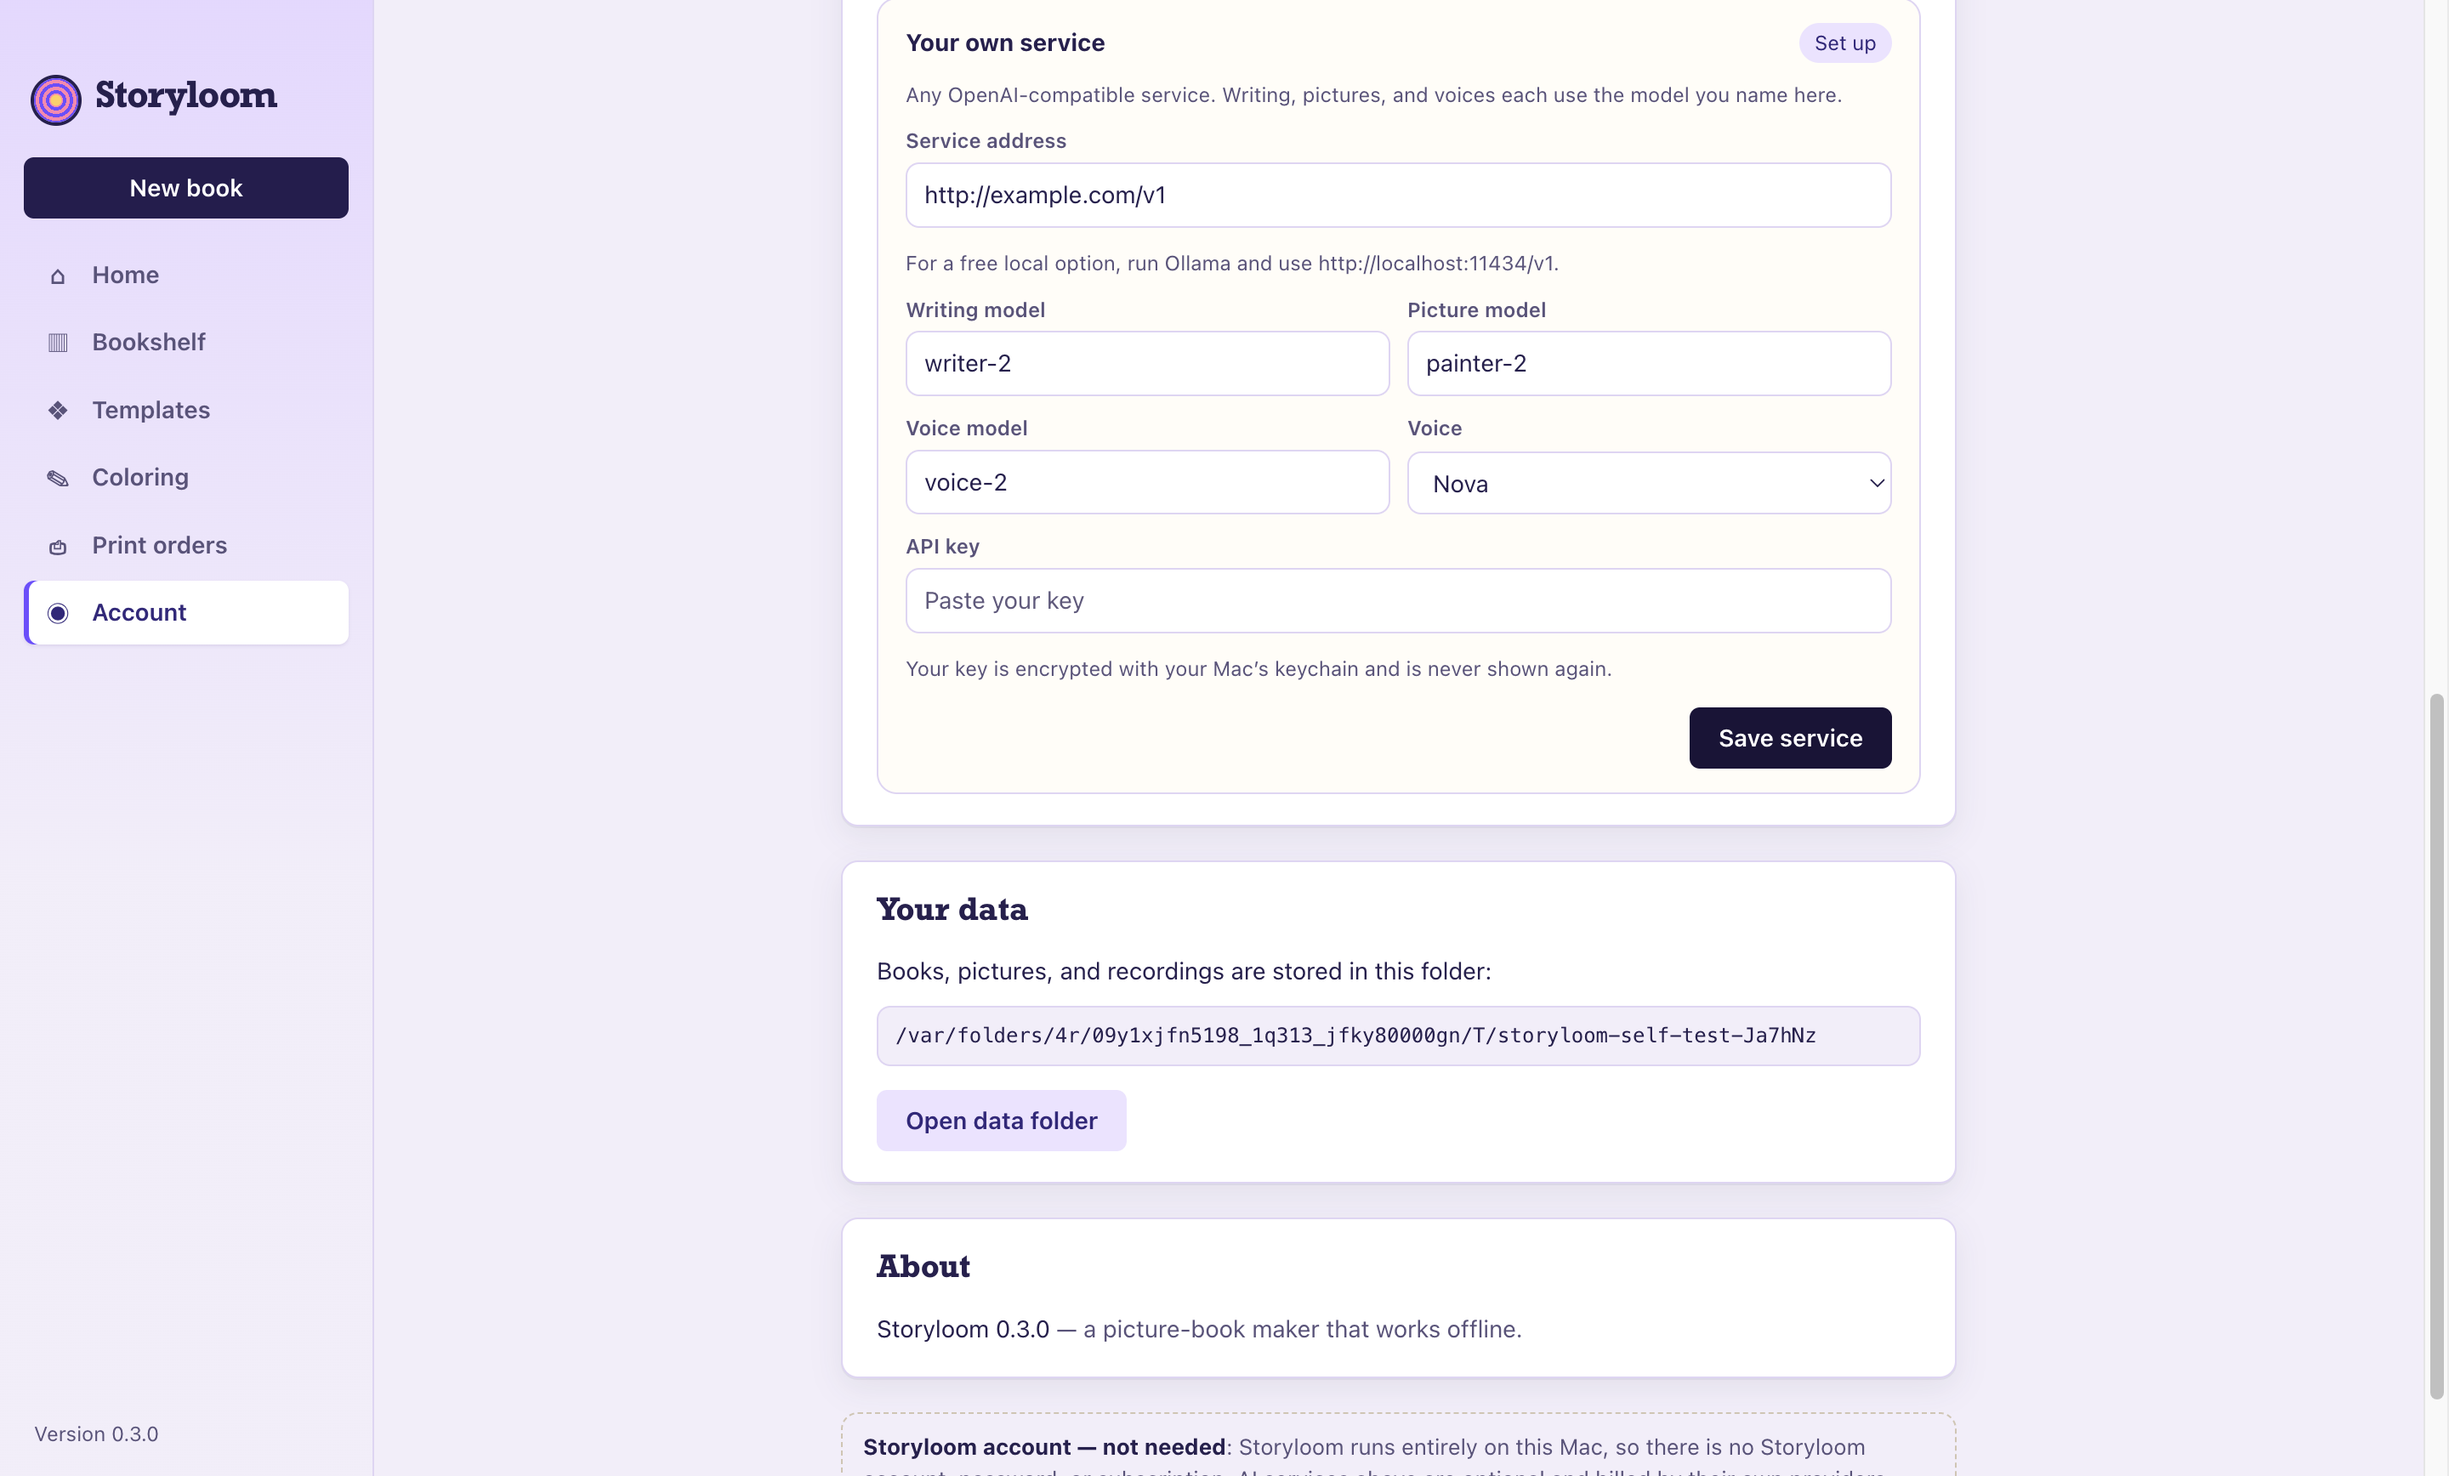
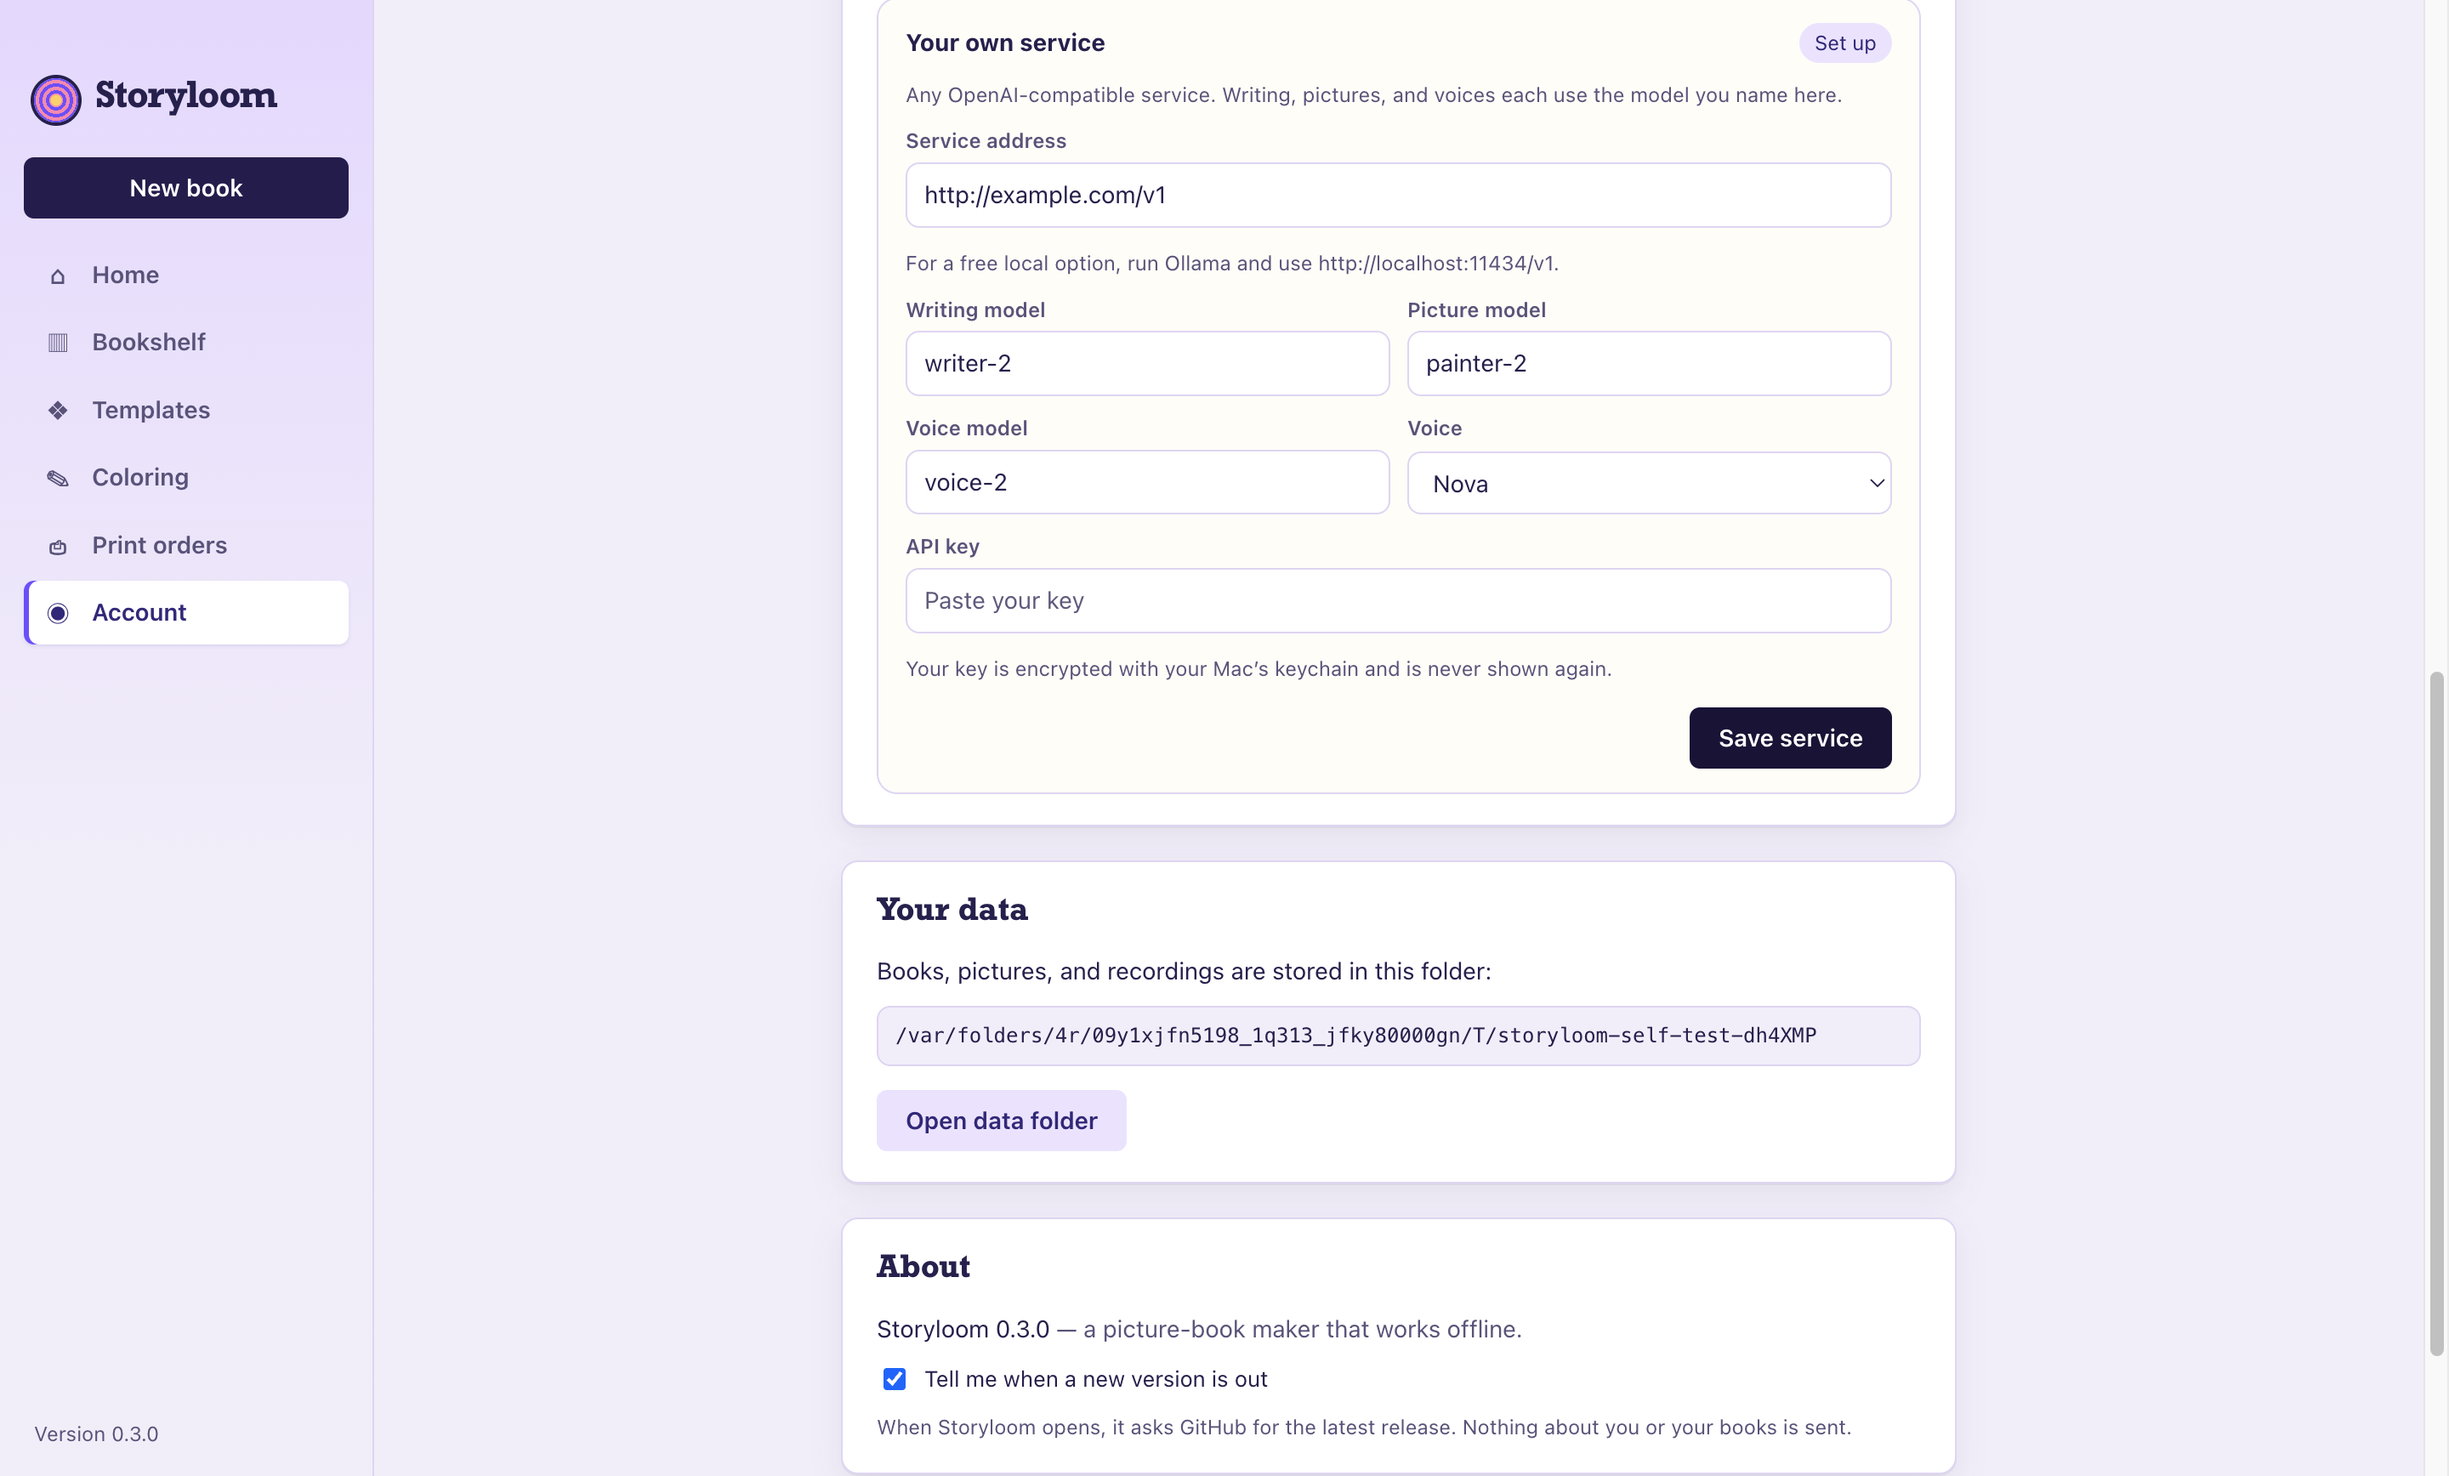
Add an update-available notice that checks GitHub releases

Changed region(s): [[0.3438, 0.9332, 0.8125, 1.0], [0.7188, 0.6843, 0.75, 0.7154]]

diff --git a/renderer/app.js b/renderer/app.js
@@ -198,17 +198,50 @@ const notBuilt = () => toast(NOT_BUILT);
 
 // The running app's version, shown at the foot of the sidebar. It comes from the app itself
 // (package.json, which `npm run release` updates), so it always matches the installed build.
+// Below it, a notice appears when GitHub has a newer release (checked once per launch, if allowed).
 let appVersion = null;
+let updateInfo = null; // { available, latest } from the last check
+let updateCheck = null; // the check in progress or done, so it runs once per launch
+function updateNotice() {
+  if (!updateInfo?.available) return null;
+  return h('div', { class: 'app-update', id: 'app-update', role: 'status' },
+    h('span', {}, `Version ${updateInfo.latest} is available`),
+    h('button', { type: 'button', class: 'link-btn', id: 'app-update-open', onclick: () => run(() => api.openUpdate()) }, 'Download it'));
+}
+function refreshVersionBox() {
+  const box = document.getElementById('app-version-box');
+  if (!box) return;
+  box.replaceChildren(...[
+    h('p', { class: 'app-version', id: 'app-version' }, appVersion ? `Version ${appVersion}` : ''),
+    updateNotice(),
+  ].filter(Boolean));
+}
+// Runs the check (again, if `force`) and updates the sidebar. Also used by Account's on/off switch.
+let updateRequest = 0;
+function checkUpdateNow(force = false) {
+  if (force || !updateCheck) {
+    const request = ++updateRequest;
+    // Only the newest check may change the notice, so a slow older answer can't overwrite a newer one.
+    updateCheck = Promise.resolve()
+      .then(() => api.checkForUpdate(force))
+      .then((info) => { if (request === updateRequest) updateInfo = info; },
+        () => { if (request === updateRequest) updateInfo = null; });
+  }
+  return updateCheck.then(refreshVersionBox);
+}
 function versionLabel() {
-  const label = h('p', { class: 'app-version', id: 'app-version' }, appVersion ? `Version ${appVersion}` : '');
+  const box = h('div', { class: 'app-version-box', id: 'app-version-box' },
+    h('p', { class: 'app-version', id: 'app-version' }, appVersion ? `Version ${appVersion}` : ''),
+    updateNotice());
   if (!appVersion) {
     api.appInfo().then((info) => {
       if (typeof info?.version !== 'string' || !info.version) return;
       appVersion = info.version;
-      label.textContent = `Version ${appVersion}`;
+      refreshVersionBox();
     }, () => {});
   }
-  return label;
+  if (!updateCheck) queueMicrotask(() => checkUpdateNow());
+  return box;
 }
 
 // AI service settings live on the Account screen.

diff --git a/renderer/screens/account.js b/renderer/screens/account.js
@@ -312,7 +312,21 @@
           h('div', { class: 'form-actions export-start' },
             h('button', { class: 'btn secondary', id: 'account-open-data', onclick: () => run(() => api.openDataFolder()) }, 'Open data folder'))),
         h('section', { class: 'export-details', id: 'account-about' }, h('h2', {}, 'About'),
-          h('p', {}, `Storyloom ${info.version}`, h('span', { class: 'muted' }, ' — a picture-book maker that works offline.'))),
+          h('p', {}, `Storyloom ${info.version}`, h('span', { class: 'muted' }, ' — a picture-book maker that works offline.')),
+          h('label', { class: 'check' },
+            h('input', { type: 'checkbox', id: 'account-check-updates', checked: settings.checkUpdates !== false, onchange: async (e) => {
+              const on = e.target.checked;
+              try {
+                state.settings = await api.saveSettings({ checkUpdates: on });
+                await checkUpdateNow(true);
+                toast(on ? 'Storyloom will tell you about new versions' : 'Storyloom won’t check for new versions');
+              } catch (err) {
+                e.target.checked = !on;
+                toast(cleanError(err));
+              }
+            } }),
+            'Tell me when a new version is out'),
+          h('p', { class: 'muted small-print' }, 'When Storyloom opens, it asks GitHub for the latest release. Nothing about you or your books is sent.')),
         h('div', { class: 'export-unavailable', 'data-unavailable': 'cloud-account' },
           h('strong', {}, 'Storyloom account — not needed'),
           h('span', {}, ': Storyloom runs entirely on this Mac, so there is no Storyloom account, password, or subscription. AI services above are optional and billed by their own providers.'))));

diff --git a/renderer/app.css b/renderer/app.css
@@ -74,7 +74,13 @@ select {
   background: #f4eee4; -webkit-app-region: drag;
 }
 .app-nav button { -webkit-app-region: no-drag; }
-.app-version { margin: auto 6px 0; font-size: 12px; color: var(--muted); -webkit-app-region: no-drag; user-select: text; }
+.app-version-box { margin: auto 6px 0; display: grid; gap: 6px; -webkit-app-region: no-drag; }
+.app-version { margin: 0; font-size: 12px; color: var(--muted); user-select: text; }
+.app-update {
+  display: grid; gap: 2px; padding: 8px 10px; border-radius: 8px;
+  background: var(--panel); border: 1px solid var(--line); font-size: 13px; color: var(--ink);
+}
+.app-update .link-btn { justify-self: start; font-weight: 600; }
 .app-nav .brand { padding: 0 6px 4px; }
 .app-nav-list { display: grid; gap: 2px; }
 .app-nav-item {

diff --git a/renderer/preview-boot.js b/renderer/preview-boot.js
@@ -179,6 +179,8 @@
     revealExport: unsupported,
     openDataFolder: unsupported,
     appInfo: () => ok({ version: 'preview', dataFolder: 'This browser tab (preview only)' }),
+    checkForUpdate: () => ok({ available: false, current: 'preview' }), // the preview never contacts GitHub
+    openUpdate: unsupported,
     getSettings: () => ok(structuredClone(settings)),
     saveSettings: (input) => { settings = { ...settings, ...input, hasKey: settings.hasKey }; return ok(structuredClone(settings)); },
     generateStory: unsupported,

diff --git a/CHANGELOG.md b/CHANGELOG.md
@@ -11,6 +11,7 @@ The format follows [Keep a Changelog](https://keepachangelog.com/en/1.1.0/), and
 ### Added
 
 - The version number now shows at the bottom of the sidebar on every screen, so you can tell which Storyloom you're running.
+- When a newer version is out, a notice under the version number links to its download page. Storyloom checks GitHub once when it opens; you can turn this off in Account → About.
 
 ## [0.3.0] - 2026-10-07
 
